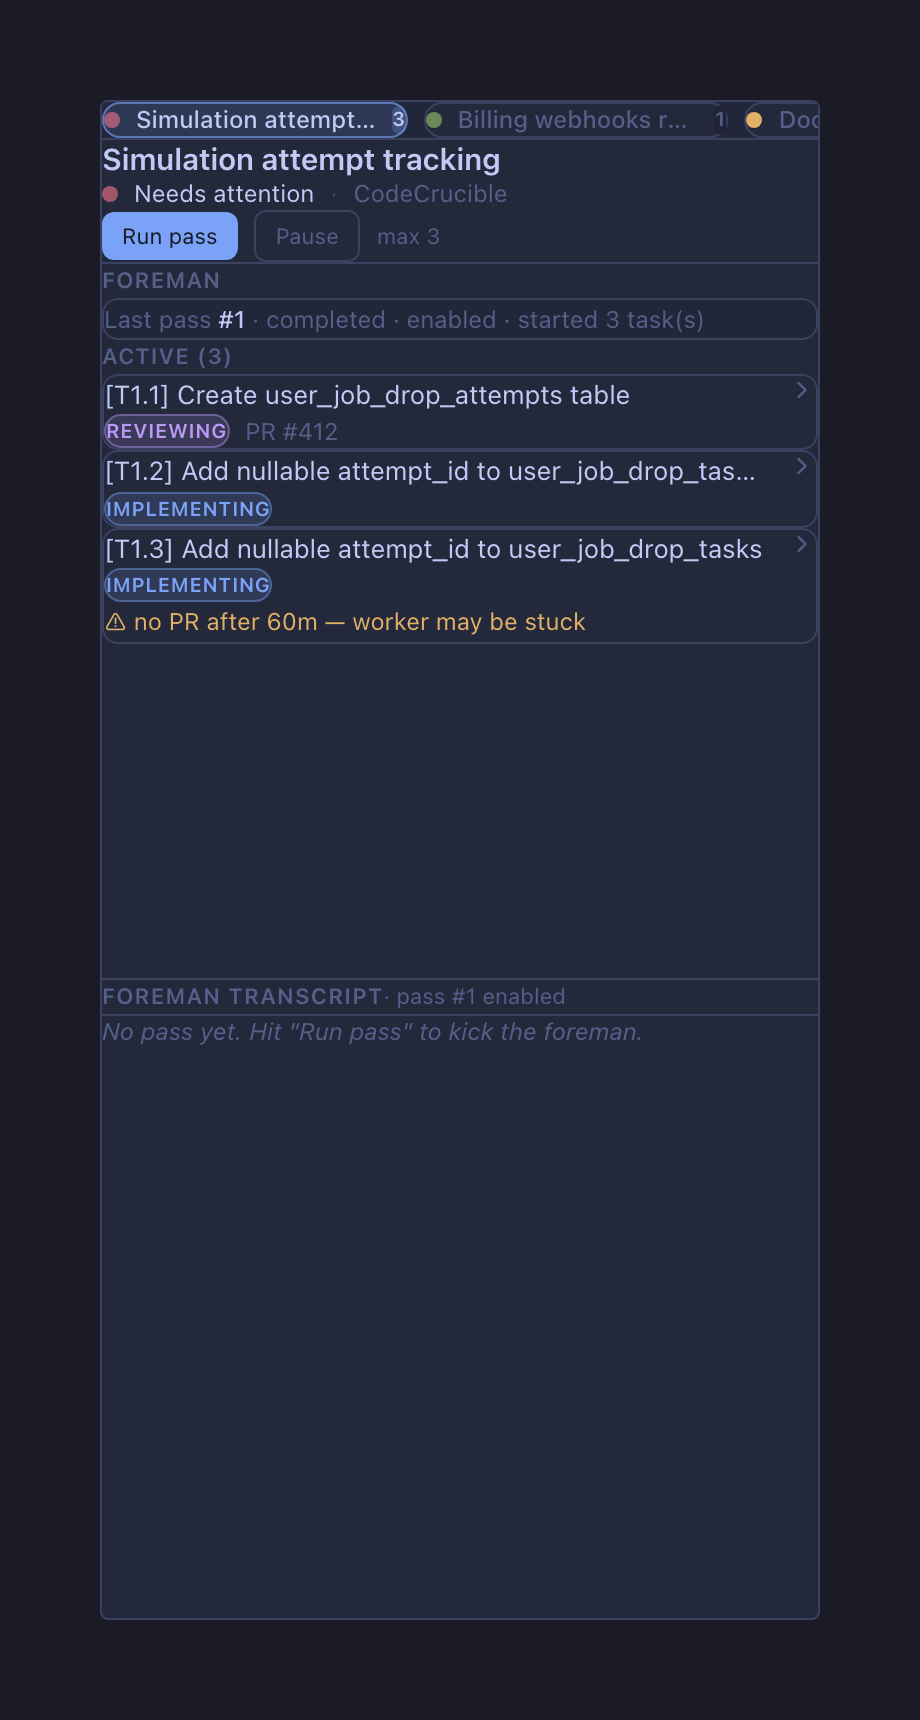
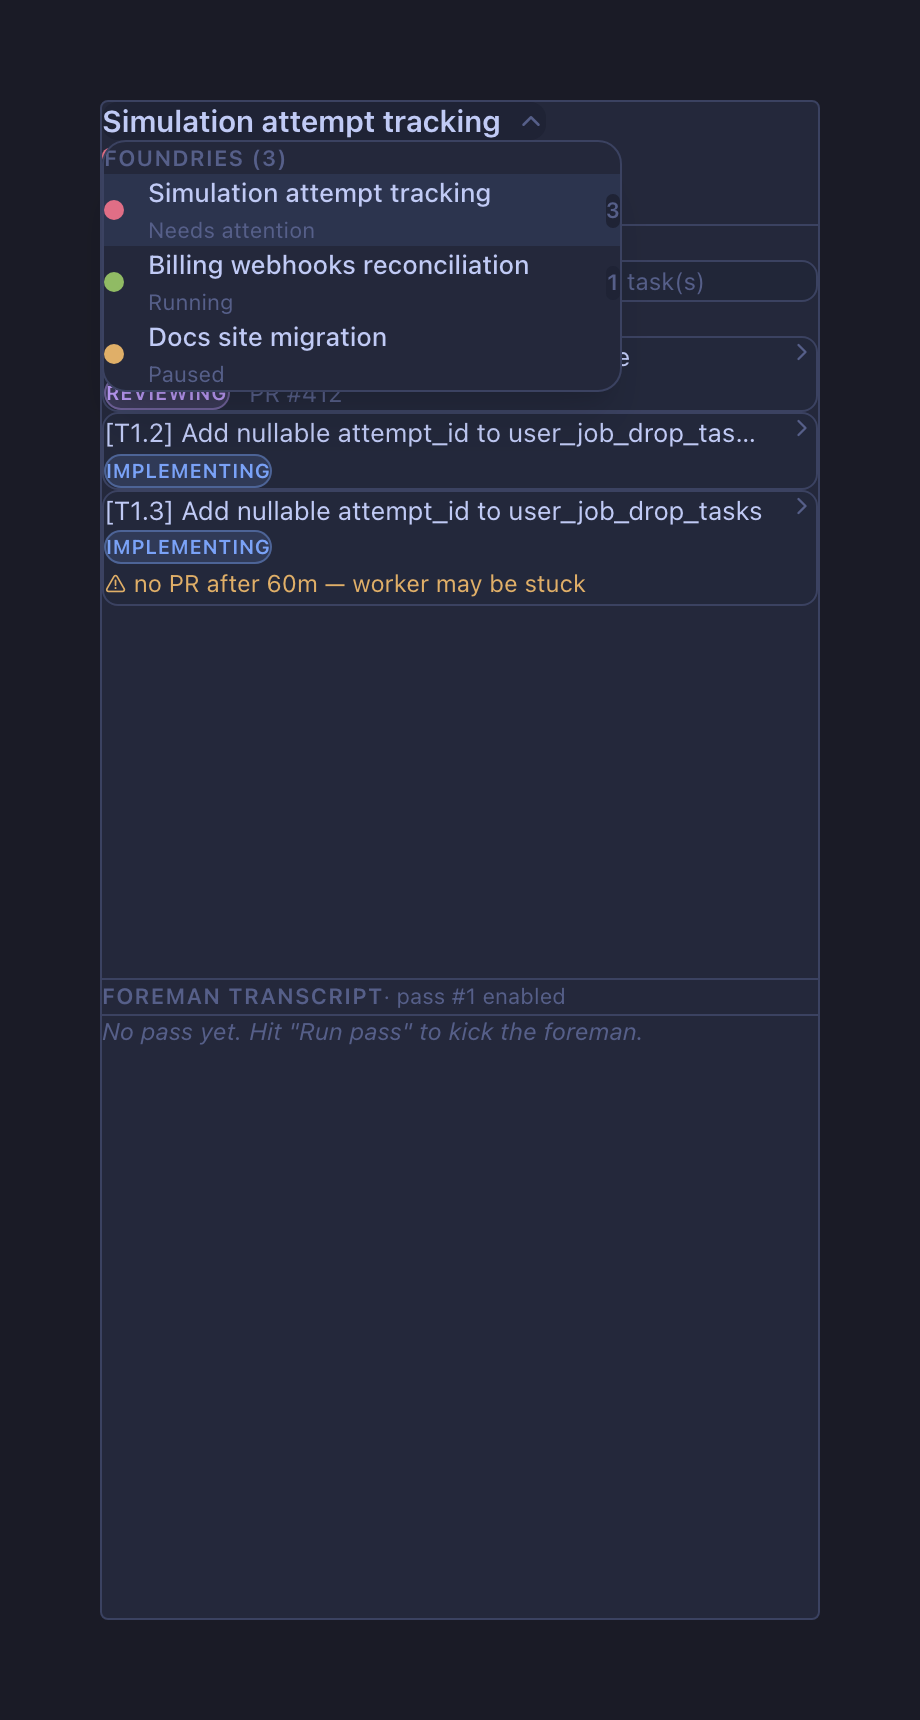
refactor(foundry): dropdown switcher + roomier spacing
Replace the scrollable pill tab strip with a dropdown switcher: the
foundry name in the header is now a click-to-open menu listing every
foundry with a status dot, a one-word status, and an in-flight count —
no horizontal scrolling. Falls back to the plain name when a project has
a single foundry.

Open up spacing throughout per design feedback: bigger header/content
padding (px-6), more generous phase pills (px-3 py-1.5), taller pipeline
cards with a clear 16px gap between active sessions, and horizontal
padding on the foreman panes that lines up with the content above.

Open the switcher in the multi-foundry screenshot target; regenerate the
foundry panel screenshots and update the README copy/alt text.

Changed region(s): [[0.0913, 0.0616, 0.8826, 0.3698], [0.7609, 0.0616, 0.8826, 0.0924]]

diff --git a/src/renderer/components/foundry/FoundryPanel.tsx b/src/renderer/components/foundry/FoundryPanel.tsx
@@ -97,9 +97,9 @@ export function FoundryPanel() {
     [configs, currentProjectId]
   )
 
-  // Honour the user's manual tab choice while it still exists; otherwise fall
-  // back to the first enabled foundry (or the first one configured). Multiple
-  // foundries can run at once — the tab strip lets you switch between them.
+  // Honour the user's manual choice while it still exists; otherwise fall back
+  // to the first enabled foundry (or the first one configured). Multiple
+  // foundries can run at once — the header dropdown switches between them.
   const selected = useMemo(() => {
     const manual = selectedId && projectFoundries.find((f) => f.id === selectedId)
     if (manual) return manual
@@ -127,26 +127,24 @@ export function FoundryPanel() {
   }
 
   return (
-    <div className="flex-1 min-h-0 flex flex-col">
-      {projectFoundries.length > 1 && (
-        <FoundryTabs
-          foundries={projectFoundries}
-          states={states}
-          selectedId={selected.id}
-          onSelect={setSelectedId}
-        />
-      )}
-      <FoundryView
-        key={selected.id}
-        cfg={selected}
-        state={states[selected.id]}
-        projects={projects}
-      />
-    </div>
+    <FoundryView
+      key={selected.id}
+      cfg={selected}
+      state={states[selected.id]}
+      projects={projects}
+      foundries={projectFoundries}
+      states={states}
+      onSelect={setSelectedId}
+    />
   )
 }
 
-function FoundryTabs({
+/**
+ * Dropdown switcher for when a project runs more than one foundry. The selected
+ * foundry's name doubles as the menu trigger; the menu lists every foundry with
+ * its live status and in-flight count.
+ */
+function FoundrySwitcher({
   foundries,
   states,
   selectedId,
@@ -157,44 +155,86 @@ function FoundryTabs({
   selectedId: string
   onSelect: (id: string) => void
 }) {
+  const [open, setOpen] = useState(false)
+  const ref = useRef<HTMLDivElement>(null)
+  const selected = foundries.find((f) => f.id === selectedId)
+
+  useEffect(() => {
+    if (!open) return
+    const onDown = (e: MouseEvent) => {
+      if (ref.current && !ref.current.contains(e.target as Node)) setOpen(false)
+    }
+    document.addEventListener('mousedown', onDown)
+    return () => document.removeEventListener('mousedown', onDown)
+  }, [open])
+
   return (
-    <div className="shrink-0 border-b border-border bg-bg-tertiary/40">
-      <div className="flex items-center gap-2 overflow-x-auto px-3 py-2.5 [scrollbar-width:thin]">
-        {foundries.map((f) => {
-          const meta = foundryStatusMeta(f, states[f.id])
-          const isSelected = f.id === selectedId
-          return (
-            <button
-              key={f.id}
-              onClick={() => onSelect(f.id)}
-              title={`${f.name} — ${meta.label}`}
-              className={
-                'group flex shrink-0 items-center gap-2 rounded-full border px-3 py-1.5 text-xs transition-colors ' +
-                (isSelected
-                  ? 'border-accent/60 bg-accent/15 text-text'
-                  : 'border-border bg-bg-secondary text-text-muted hover:text-text hover:border-text-muted/50')
-              }
-            >
-              <span
-                className={`inline-block h-2 w-2 shrink-0 rounded-full ${meta.dot} ${
-                  meta.pulse ? 'animate-pulse' : ''
-                }`}
-              />
-              <span className="max-w-[120px] truncate font-medium">{f.name}</span>
-              {meta.activeCount > 0 && (
-                <span
+    <div className="relative" ref={ref}>
+      <button
+        onClick={() => setOpen((o) => !o)}
+        className="group flex max-w-full items-center gap-2 rounded-lg px-2 py-1 -mx-2 -my-1 hover:bg-bg-tertiary transition-colors"
+        title="Switch foundry"
+      >
+        <span className="text-[15px] font-semibold text-text truncate leading-tight">
+          {selected?.name}
+        </span>
+        <svg
+          className={`shrink-0 text-text-muted transition-transform ${open ? 'rotate-180' : ''}`}
+          width="15"
+          height="15"
+          viewBox="0 0 24 24"
+          fill="none"
+          stroke="currentColor"
+          strokeWidth="2"
+          strokeLinecap="round"
+          strokeLinejoin="round"
+        >
+          <polyline points="6 9 12 15 18 9" />
+        </svg>
+      </button>
+      {open && (
+        <div className="absolute left-0 top-full z-20 mt-2 w-[260px] max-w-[calc(100vw-2rem)] overflow-hidden rounded-xl border border-border bg-bg-secondary shadow-xl">
+          <div className="px-4 pt-3.5 pb-2 text-[11px] font-semibold uppercase tracking-wider text-text-muted">
+            Foundries ({foundries.length})
+          </div>
+          <div className="pb-1.5">
+            {foundries.map((f) => {
+              const meta = foundryStatusMeta(f, states[f.id])
+              const isSelected = f.id === selectedId
+              return (
+                <button
+                  key={f.id}
+                  onClick={() => {
+                    onSelect(f.id)
+                    setOpen(false)
+                  }}
                   className={
-                    'shrink-0 rounded-full px-1.5 text-[10px] font-semibold tabular-nums ' +
-                    (isSelected ? 'bg-accent/25 text-text' : 'bg-bg-tertiary text-text-muted')
+                    'flex w-full items-center gap-3 px-4 py-3.5 text-left transition-colors ' +
+                    (isSelected ? 'bg-accent/10' : 'hover:bg-bg-tertiary')
                   }
                 >
-                  {meta.activeCount}
-                </span>
-              )}
-            </button>
-          )
-        })}
-      </div>
+                  <span
+                    className={`inline-block h-2.5 w-2.5 shrink-0 rounded-full ${meta.dot} ${
+                      meta.pulse ? 'animate-pulse' : ''
+                    }`}
+                  />
+                  <span className="min-w-0 flex-1">
+                    <span className="block truncate text-[13px] font-medium text-text">
+                      {f.name}
+                    </span>
+                    <span className="block text-[11px] text-text-muted">{meta.label}</span>
+                  </span>
+                  {meta.activeCount > 0 && (
+                    <span className="shrink-0 rounded-full bg-bg-tertiary px-2.5 py-1 text-[11px] font-semibold tabular-nums text-text-muted">
+                      {meta.activeCount}
+                    </span>
+                  )}
+                </button>
+              )
+            })}
+          </div>
+        </div>
+      )}
     </div>
   )
 }
@@ -203,10 +243,16 @@ function FoundryView({
   cfg,
   state,
   projects,
+  foundries,
+  states,
+  onSelect,
 }: {
   cfg: FoundryConfig
   state: FoundryRuntimeState | undefined
   projects: import('../../../shared/types').Project[]
+  foundries: FoundryConfig[]
+  states: Record<string, FoundryRuntimeState>
+  onSelect: (id: string) => void
 }) {
   const runNow = useFoundryStore((s) => s.runNow)
   const setPaused = useFoundryStore((s) => s.setPaused)
@@ -222,27 +268,34 @@ function FoundryView({
   return (
     <div className="flex-1 min-h-0 flex flex-col">
       {/* Header */}
-      <div className="px-4 py-3.5 border-b border-border">
-        <div className="flex items-start justify-between gap-3">
-          <div className="min-w-0">
+      <div className="px-6 py-5 border-b border-border">
+        <div className="min-w-0">
+          {foundries.length > 1 ? (
+            <FoundrySwitcher
+              foundries={foundries}
+              states={states}
+              selectedId={cfg.id}
+              onSelect={onSelect}
+            />
+          ) : (
             <div className="text-[15px] font-semibold text-text truncate leading-tight">
               {cfg.name}
             </div>
-            <div className="mt-1 flex items-center gap-2 text-xs text-text-muted">
-              <span
-                className={`inline-block h-2 w-2 shrink-0 rounded-full ${status.dot} ${
-                  status.pulse ? 'animate-pulse' : ''
-                }`}
-              />
-              <span className="text-text">{status.label}</span>
-              <span className="text-text-muted/60">·</span>
-              <span className="truncate">{project?.name ?? cfg.projectId}</span>
-            </div>
+          )}
+          <div className="mt-2 flex items-center gap-2 text-xs text-text-muted">
+            <span
+              className={`inline-block h-2 w-2 shrink-0 rounded-full ${status.dot} ${
+                status.pulse ? 'animate-pulse' : ''
+              }`}
+            />
+            <span className="text-text">{status.label}</span>
+            <span className="text-text-muted/60">·</span>
+            <span className="truncate">{project?.name ?? cfg.projectId}</span>
           </div>
         </div>
 
         {cfg.enabled && (
-          <div className="mt-3 flex flex-wrap items-center gap-2">
+          <div className="mt-4 flex flex-wrap items-center gap-2">
             <Button size="sm" variant="primary" onClick={() => void runNow(cfg.id)}>
               Run pass
             </Button>
@@ -290,9 +343,9 @@ function FoundryView({
       {cfg.enabled && (
         <div className="flex-1 min-h-0 flex flex-col">
           {/* Top half: status + pipelines */}
-          <div className="flex-1 min-h-0 overflow-y-auto px-4 py-4 space-y-5">
+          <div className="flex-1 min-h-0 overflow-y-auto px-6 py-6 space-y-7">
             {state?.lastError && (
-              <div className="rounded-lg px-3.5 py-3 text-xs leading-relaxed text-danger bg-danger/10 border border-danger/30">
+              <div className="rounded-lg px-4 py-3.5 text-xs leading-relaxed text-danger bg-danger/10 border border-danger/30">
                 {state.lastError}
               </div>
             )}
@@ -300,7 +353,7 @@ function FoundryView({
             {/* Foreman pass status */}
             <section>
               <SectionLabel>Foreman</SectionLabel>
-              <div className="mt-2.5 rounded-lg border border-border bg-bg-tertiary/40 px-3.5 py-3">
+              <div className="mt-3.5 rounded-lg border border-border bg-bg-tertiary/40 px-4 py-4">
                 {passInFlight ? (
                   <div className="flex items-center gap-2 text-sm text-text">
                     <span className="inline-block h-2 w-2 rounded-full bg-warning animate-pulse" />
@@ -323,13 +376,13 @@ function FoundryView({
             <section>
               <SectionLabel>Active ({activePipelines.length})</SectionLabel>
               {activePipelines.length === 0 ? (
-                <div className="mt-2.5 rounded-lg border border-dashed border-border px-3.5 py-5 text-center text-xs text-text-muted italic">
+                <div className="mt-3 rounded-lg border border-dashed border-border px-4 py-6 text-center text-xs text-text-muted italic">
                   {passInFlight
                     ? 'Foreman is deciding what to start…'
                     : 'No pipelines running.'}
                 </div>
               ) : (
-                <div className="mt-2.5 space-y-2.5">
+                <div className="mt-3.5 space-y-4">
                   {activePipelines.map((p) => (
                     <PipelineRow key={p.id} foundryId={cfg.id} pipeline={p} />
                   ))}
@@ -339,11 +392,11 @@ function FoundryView({
 
             {/* Completed */}
             {completedPipelines.length > 0 && (
-              <details className="rounded-lg border border-border bg-bg-tertiary/30 px-3.5 py-3" open={false}>
+              <details className="rounded-lg border border-border bg-bg-tertiary/30 px-4 py-3.5" open={false}>
                 <summary className="cursor-pointer select-none">
                   <SectionLabel inline>Completed ({completedPipelines.length})</SectionLabel>
                 </summary>
-                <div className="space-y-2.5 mt-3">
+                <div className="space-y-4 mt-3.5">
                   {completedPipelines.slice(-10).reverse().map((p) => (
                     <PipelineRow key={p.id} foundryId={cfg.id} pipeline={p} />
                   ))}
@@ -353,7 +406,7 @@ function FoundryView({
 
             {/* Pass history */}
             {passes.length > 1 && (
-              <details className="rounded-lg border border-border bg-bg-tertiary/30 px-3.5 py-3">
+              <details className="rounded-lg border border-border bg-bg-tertiary/30 px-4 py-3.5">
                 <summary className="cursor-pointer select-none">
                   <SectionLabel inline>Pass history ({passes.length})</SectionLabel>
                 </summary>
@@ -459,7 +512,7 @@ function ForemanPtyPane({ terminalId }: { terminalId: string }) {
       className="border-t border-border flex flex-col shrink-0"
       style={{ height: 320 }}
     >
-      <div className="px-4 py-2.5 flex items-center justify-between border-b border-border">
+      <div className="px-6 py-3 flex items-center justify-between border-b border-border">
         <SectionLabel inline>
           Foreman <span className="font-normal normal-case tracking-normal">— interactive</span>
         </SectionLabel>
@@ -468,7 +521,7 @@ function ForemanPtyPane({ terminalId }: { terminalId: string }) {
           live
         </span>
       </div>
-      <div ref={containerRef} className="flex-1 min-h-0" style={{ padding: 6 }} />
+      <div ref={containerRef} className="flex-1 min-h-0" style={{ padding: "8px 10px" }} />
     </div>
   )
 }
@@ -502,7 +555,7 @@ function ForemanTranscriptPane({ state }: { state: FoundryRuntimeState | undefin
       className="border-t border-border flex flex-col shrink-0"
       style={{ height: 320 }}
     >
-      <div className="px-4 py-2.5 flex items-center justify-between border-b border-border">
+      <div className="px-6 py-3 flex items-center justify-between border-b border-border">
         <SectionLabel inline>
           Foreman transcript
           {latestPass && (
@@ -524,7 +577,7 @@ function ForemanTranscriptPane({ state }: { state: FoundryRuntimeState | undefin
           onScroll={onScroll}
           className="flex-1 min-h-0 overflow-y-auto text-[11px] leading-relaxed text-text whitespace-pre-wrap break-words"
           style={{
-            padding: '10px 14px',
+            padding: '12px 22px',
             fontFamily: 'Menlo, Monaco, "Courier New", monospace',
           }}
         >
@@ -562,16 +615,16 @@ function PipelineRow({
   return (
     <div className="rounded-lg border border-border bg-bg-secondary/40 overflow-hidden">
       <button
-        className="w-full flex items-start gap-2.5 px-3.5 py-3 text-left hover:bg-bg-tertiary transition-colors"
+        className="w-full flex items-start gap-2.5 px-4 py-4 text-left hover:bg-bg-tertiary transition-colors"
         onClick={() => setExpanded((v) => !v)}
       >
         <div className="min-w-0 flex-1">
           <div className="text-[13px] text-text truncate" title={pipeline.page.title}>
             {pipeline.page.title || pipeline.page.id}
           </div>
-          <div className="mt-2 flex flex-wrap items-center gap-x-2 gap-y-1">
+          <div className="mt-3 flex flex-wrap items-center gap-x-2.5 gap-y-1.5">
             <span
-              className={`inline-block text-[10px] px-2 py-0.5 rounded-full border font-semibold uppercase tracking-wide ${chipClass}`}
+              className={`inline-block text-[10px] px-3 py-1.5 rounded-full border font-semibold uppercase tracking-wide ${chipClass}`}
             >
               {PHASE_LABEL[phase]}
             </span>

diff --git a/scripts/capture-screenshots.ts b/scripts/capture-screenshots.ts
@@ -374,6 +374,8 @@ const targets: ScreenshotTarget[] = [
     storyId: 'foundry-panel--multiple-foundries',
     viewport: { width: 460, height: 860 },
     delay: 800,
+    // Open the foundry switcher dropdown so the screenshot shows it.
+    clickSelector: 'button[title="Switch foundry"]',
   },
   {
     name: 'foundry-panel-off',

diff --git a/README.md b/README.md
@@ -528,7 +528,7 @@ The LLM can suggest anything (start 50 tasks! re-document the same plan!). The v
 
 **Optimistic continue.** A per-foundry toggle (default off) for when human PR review is the bottleneck. Normally a dependency only unblocks the next ticket once it's merged to trunk (a *completed status* like `Done`/`Testing`). Turn this on and dependencies in an **optimistic status** (default `In review` — PR open, not yet merged) also count: the foreman picks up the next ticket they unblock, and the FSM prepends a deterministic `git merge origin/<dep-branch>` preamble to the worker's prompt so the prerequisite code is merged in before implementation starts. If a dependency's branch can't be resolved, the pipeline parks for attention instead of starting work that's missing code. Safe to toggle while running — it takes effect on the next pass. See [docs/FOUNDRY.md](docs/FOUNDRY.md#optimistic-continue).
 
-**Switching between foundries.** A project can run more than one foundry at once. When it does, the panel shows a tab strip across the top — one pill per foundry, each with a live status dot (running / pass-in-flight / needs-attention / paused / off) and a badge counting its in-flight pipelines. Click to switch; the selected foundry's pipelines and foreman pane fill the panel below. With a single foundry the strip is hidden.
+**Switching between foundries.** A project can run more than one foundry at once. When it does, the foundry name in the panel header becomes a dropdown switcher — open it to see every foundry with a live status dot (running / pass-in-flight / needs-attention / paused / off), a one-word status, and a badge counting its in-flight pipelines. Pick one and its pipelines and foreman pane fill the panel below. With a single foundry the header is just the name.
 
 **Live foreman PTY in the panel.** The Foundry side panel pins a real `claude` PTY in its bottom 320 px while a pass is running. You watch the foreman think in real time; type into it to nudge it; when it writes `decision.json` the PTY closes automatically. Between passes the pane falls back to the previous pass's transcript (read-only).
 
@@ -544,7 +544,7 @@ The LLM can suggest anything (start 50 tasks! re-document the same plan!). The v
 <td><img src="docs/screenshots/foundry-panel-off.png" alt="Foundry panel when the foundry is disabled" /></td>
 </tr>
 <tr>
-<td colspan="2"><img src="docs/screenshots/foundry-panel-multiple.png" alt="Foundry panel with the multi-foundry tab strip across the top — a status dot and active-pipeline count on each tab" /></td>
+<td colspan="2"><img src="docs/screenshots/foundry-panel-multiple.png" alt="Foundry panel with the multi-foundry dropdown switcher open — each foundry listed with a status dot, status label, and active-pipeline count" /></td>
 </tr>
 <tr>
 <td colspan="2"><img src="docs/screenshots/foundry-settings-editor.png" alt="Foundry editor with multi-line implement and ready-for-review prompts, task-set filter, eligibility filter, completion transition, pickup updates" /></td>
